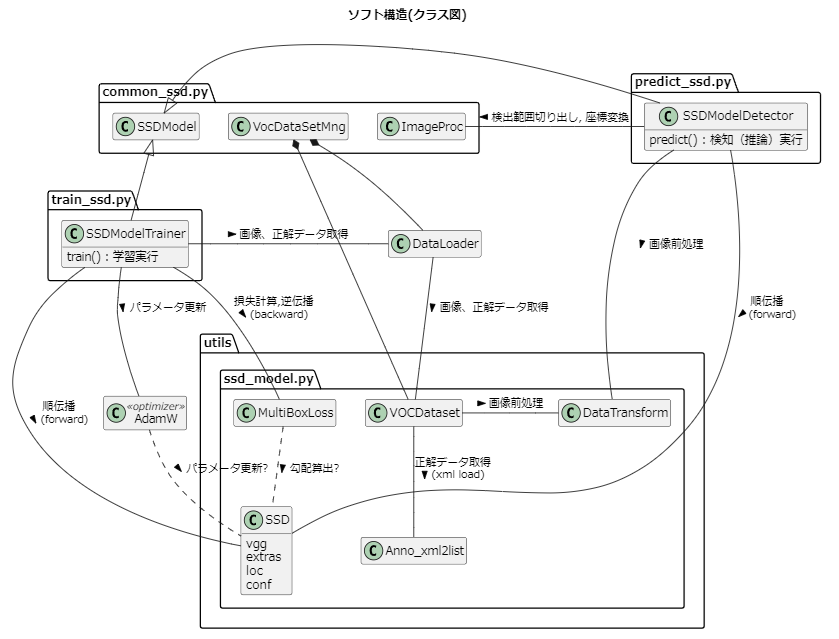
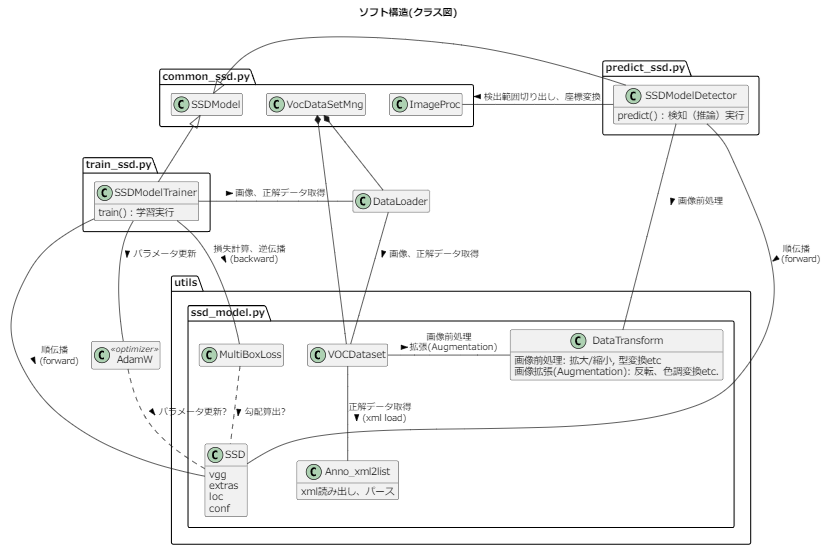
Qiita記事作成用に、コメント追加等

diff --git a/predict_ssd.py b/predict_ssd.py
@@ -10,6 +10,7 @@ from typing import List,Tuple,Any
 from utils.ssd_model import SSD, DataTransform, VOCDataset, Anno_xml2list, nm_suppression
 import numpy as np
 import torch
+import torchvision
 
 from common_ssd import ImageProc, SSDModel, DetResult, AnnoData, DrawPen, Logger, makeVocClassesTxtFpath
 
@@ -48,19 +49,25 @@ class SSDModelDetector(SSDModel):
 
     def predict(self, img_procs:List[ImageProc], img_org:np.ndarray, data_confidence_level:float=0.5, overlap:float=0.45) -> List[DetResult]:
         
-        # 複数範囲の画像バッチ化
+        # 前処理を行うクラス(DataTransform)のインスタンス作成
         transform = DataTransform(self.input_size_, self.color_mean_)
 
         imgs_trans:List[np.ndarray] = []
         for img_proc in img_procs:
             # 検出範囲切り出し
             img_det = img_proc.clip(img_org)
-            # 画像を前処理
+            # 画像前処理
             (img_trans, _ ,_) = transform(img_det, "val", "", "")
+            # batch化（リストに追加（SSDモデルにあうようデータ配置組み替えもあわせて実施））
             imgs_trans.append(img_trans[:, :, (2, 1, 0)]) # [h,w,ch(BGR→RGB)]
         
+        # batch化（リスト→torchテンソル型に変換（SSDモデルにあうようデータ配置組み替えもあわせて実施））
         imgs_trans_np = np.array(imgs_trans)                         # [batch_num, h, w, ch(RGB)]
         img_batch = torch.from_numpy(imgs_trans_np).permute(0,3,1,2) # [batch_num, ch(RGB), h, w]
+        # for idx,img in enumerate(img_batch):
+        #     torchvision.utils.save_image(img, f"img_batch{idx}.jpg")
+
+        # 入力画像をデバイス(GPU or CPU)に送る
         img_batch = img_batch.to(self.device_)
         # print(f"img_batch = {img_batch.shape}")
 
@@ -69,17 +76,18 @@ class SSDModelDetector(SSDModel):
         self.net_.eval()
         outputs = self.net_(img_batch)
 
-        # 結果取得
-        outputs    = outputs.cpu().detach().numpy()
-        find_index = np.where(outputs[:, :, :, 0] >= data_confidence_level) # (batch_num, label, top)
+        # SSDモデルの出力を閾値処理（確信度confが閾値以上の結果を取り出し）
+        outputs    = outputs.cpu().detach().numpy() # (batch_num, label, top200, [conf,xmin,ymin,xmax,ymax])
+        find_index = np.where(outputs[:, :, :, 0] >= data_confidence_level) # (batch_num, label, top200)
         outputs    = outputs[find_index]
 
+        # 抽出した物体数分ループを回す
         det_results:List[DetResult] = []
 
-        for i in range(len(find_index[1])):  # 抽出した物体数分ループを回す
+        for i in range(len(find_index[1])):  
 
-            area_no  = find_index[0][i] # 検出領域index (batch index)
-            label_no = find_index[1][i] # ラベル番号
+            area_no  = find_index[0][i] # 検出範囲index (batch index)
+            label_no = find_index[1][i] # ラベル(クラス)番号
 
             if label_no > 0:  
                 # [背景クラスでない場合] 結果を取得
@@ -88,7 +96,7 @@ class SSDModelDetector(SSDModel):
                 sc = outputs[i][0]
                 # クラス名
                 cls_name = self.voc_classes_[label_no-1]
-                # Bounding Box: 切り出し前の画像上での座標値に変換
+                # Bounding Box: 入力画像上での座標値に変換
                 bb_i = img_procs[area_no].convBBox( outputs[i][1:] )
 
                 det_results.append(DetResult(cls_name, bb_i, sc))
@@ -100,6 +108,9 @@ class SSDModelDetector(SSDModel):
         return det_results
 
     def nmSuppression(self, det_results:List[DetResult], iou:float=0.45) -> List[DetResult]:
+        # 重複枠の削除
+        #   引数iou以上の重なりがある枠が存在する場合、一番確信度が高い枠のみ残し、それ以外を削除する
+        #   異なるクラスの枠同士が重なる場合は対象外
         det_results_sup:List[DetResult] = []
 
         for cls_name in self.voc_classes_:
@@ -376,7 +387,7 @@ if __name__ == "__main__":
 
     # 検出範囲
     #   (1280x720を)300x300/350x350に切り出し
-    img_procs = [ImageProc(110, 250, 530, 600), 
+    img_procs = [ImageProc(180, 250, 530, 600), 
                  ImageProc(480, 200, 780, 500), 
                  ImageProc(730, 200, 1030, 500), 
                  ImageProc(930, 250, 1280, 600)] 

diff --git a/common_ssd.py b/common_ssd.py
@@ -99,8 +99,10 @@ class ImageProc:
             area_w = self.darea_w_
             area_h = self.darea_h_
         
+        # 検出範囲の幅、高さを掛ける
         bbox = bbox * [area_w, area_h, area_w, area_h] 
 
+        # 検出範囲の左上座標を加える
         bb_f = np.array([bbox[0] + float(self.darea_lu_x_), 
                          bbox[1] + float(self.darea_lu_y_), 
                          bbox[2] + float(self.darea_lu_x_), 

diff --git a/README.md b/README.md
@@ -46,7 +46,7 @@ https://github.com/hituji1012/od_test
 ```predict_ssd.py
 # 検出範囲
 #   (1280x720を)300x300/350x350に切り出し
-img_procs = [ImageProc(110, 250, 530, 600), 
+img_procs = [ImageProc(180, 250, 530, 600), 
              ImageProc(480, 200, 780, 500), 
              ImageProc(730, 200, 1030, 500), 
              ImageProc(930, 250, 1280, 600)] 
@@ -131,7 +131,7 @@ test_rate  = 0.1
 実行後は、weights/以下に、pthファイルと、学習クラス名が書かれたtxtが出力されます。
 
 ```
-./train_ssd.py [動画(mp4) or 画像ファイルパス] ([epoch数])
+./train_ssd.py ([epoch数])
 ```
 
 学習にかかる時間は、PC環境や学習データ数に大きく依存します。
